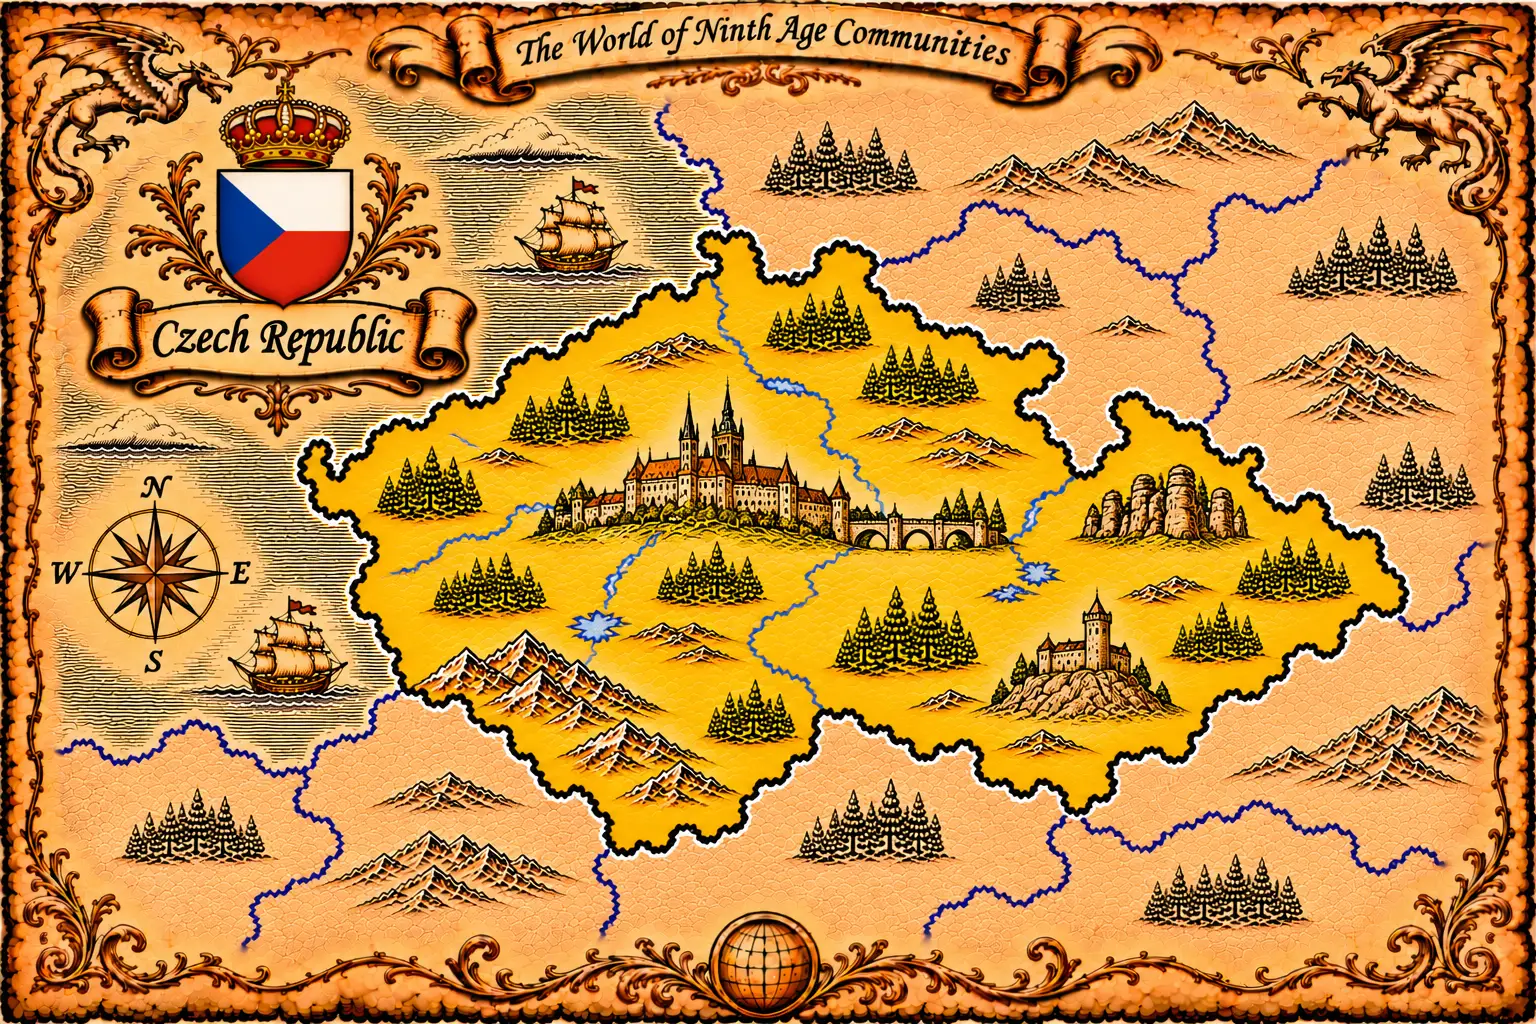
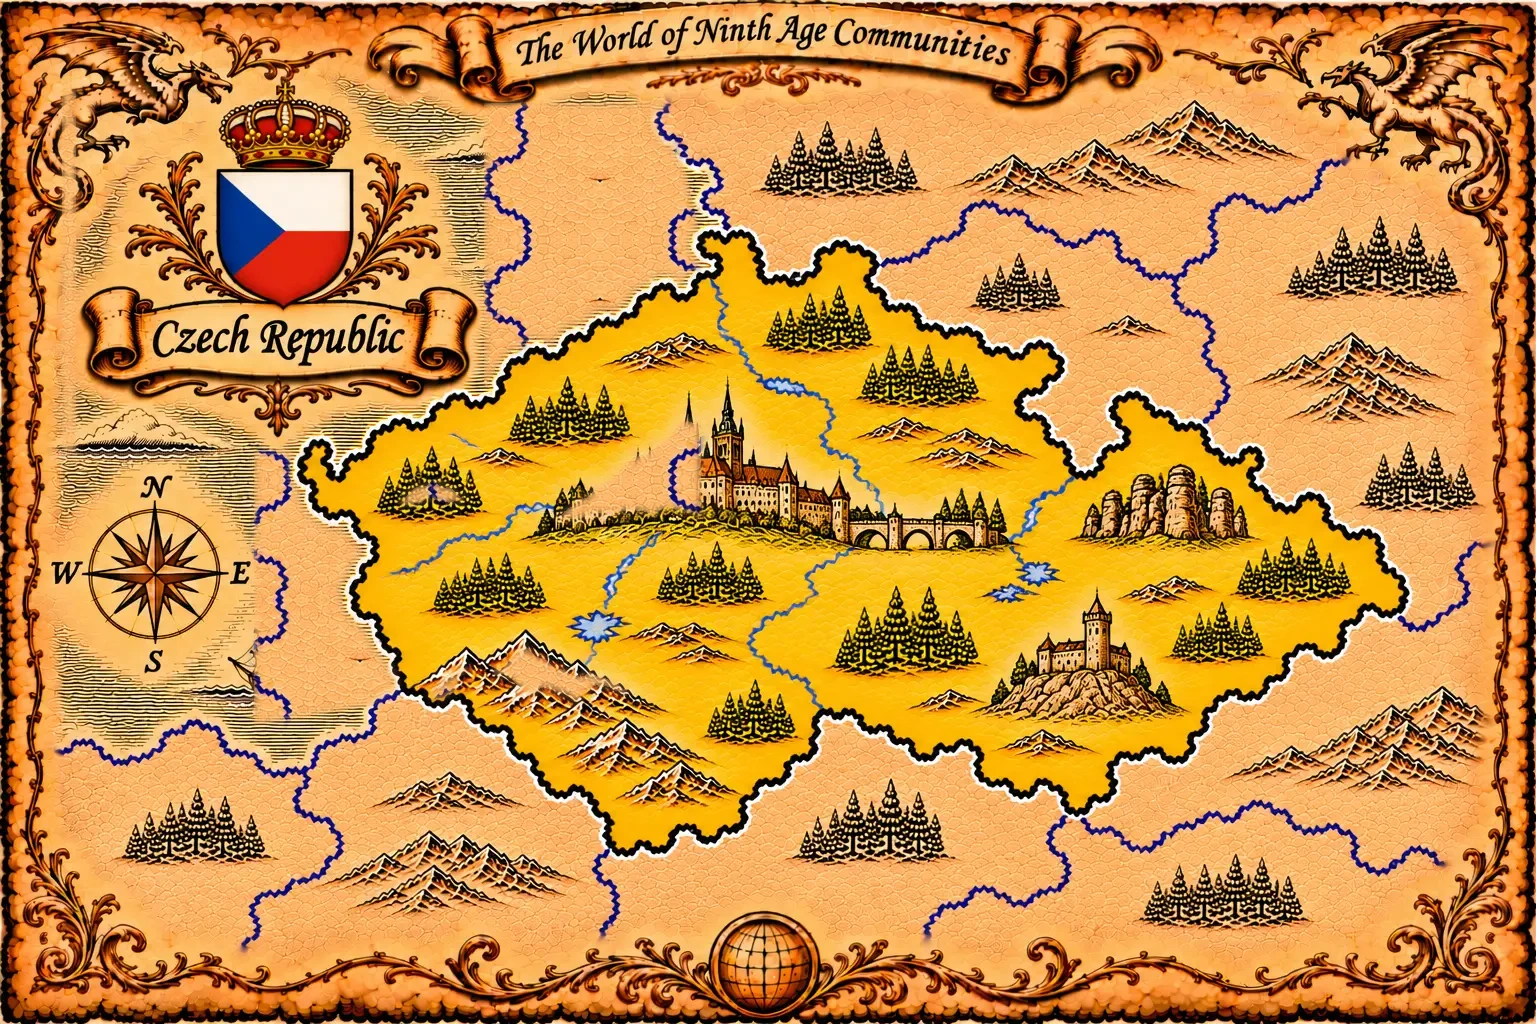
Repaint drawn sea as land on Czechia, Austria and Switzerland
The artwork showed sea where Germany (west of Czechia), Slovenia (south
of Austria) and France (west of Switzerland) should be. tools/repaint_land.py
covers those areas with parchment texture from the same map (originals kept
in assets/country-maps/originals/), and they are now clickable as those
countries.

diff --git a/tools/repaint_land.py b/tools/repaint_land.py
@@ -1,0 +1,90 @@
+"""Repaints part of a minimap as plain land, for sea the artist drew by mistake.
+
+    python repaint_land.py ../data/country-maps/czechia.json
+
+Reads "repaint": [{"outline": [[x, y], ...], "keep": ["Czechia"]}] from the
+config. Inside each outline, everything except the countries listed in
+"keep", the standard decorations and a thin band along their edges (so drawn
+border lines survive) is covered with parchment texture taken from the
+plainest patch of land on the map. Ships and clouds there are painted over.
+
+The untouched artwork is kept as assets/country-maps/originals/<name>.webp and
+is always the starting point, so re-running is safe. Rebuild the hit map
+afterwards (build_minimap.py), adding an "areas" entry to make the repainted
+land clickable.
+"""
+
+import json
+import shutil
+import sys
+from pathlib import Path
+
+import numpy as np
+from PIL import Image, ImageDraw, ImageFilter
+
+from hitmap_lib import dilate
+
+ROOT = Path(__file__).resolve().parent.parent
+config_path = Path(sys.argv[1]).resolve()
+cfg = json.loads(config_path.read_text(encoding="utf8"))
+image_path = ROOT / cfg["image"]
+original = ROOT / "assets/country-maps/originals" / image_path.name
+original.parent.mkdir(parents=True, exist_ok=True)
+if not original.exists():
+    shutil.copy(image_path, original)
+
+art = Image.open(original).convert("RGB")
+W, H = art.size
+px = np.asarray(art).astype(float)
+grey = px.mean(axis=2)
+hitmap = np.asarray(Image.open(config_path.with_name(f"{config_path.stem}-hitmap.png")))
+names = json.loads(config_path.with_name(f"{config_path.stem}-hitmap.json").read_text(encoding="utf8"))["names"]
+
+# Standard layout pieces stay as drawn (same fractions as build_minimap.py).
+KEEP_DECOR = [(0.05, 0.08, 0.315, 0.44), (0.03, 0.44, 0.165, 0.76), (0, 0, 1, 0.035), (0, 0.95, 1, 1),
+              (0, 0, 0.04, 1), (0.96, 0, 1, 1), (0.27, 0, 0.74, 0.10), (0.455, 0.88, 0.545, 1)]
+decor = Image.new("1", (W, H), 0)
+for x0, y0, x1, y1 in KEEP_DECOR:
+    ImageDraw.Draw(decor).rectangle([x0 * W, y0 * H, x1 * W, y1 * H], fill=1)
+decor = np.asarray(decor)
+
+
+def box_sum(a, r):
+    c = np.pad(a.astype(float), ((r + 1, r), (r + 1, r))).cumsum(0).cumsum(1)
+    n = 2 * r + 1
+    return c[n:, n:] - c[:-n, n:] - c[n:, :-n] + c[:-n, :-n]
+
+
+# Texture source: the window of neighbouring land with the least ink in it.
+featured = names.index(cfg["country"]) + 1 if cfg["country"] in names else -1
+land = (hitmap > 0) & (hitmap != featured) & ~decor
+size = 120
+r = size // 2
+ink_count = box_sum(grey < 150, r)
+land_count = box_sum(land, r)
+score = np.where(land_count >= 0.999 * size * size, ink_count, np.inf)
+score[:r] = score[-r:] = np.inf
+score[:, :r] = score[:, -r:] = np.inf
+cy, cx = np.unravel_index(np.argmin(score), score.shape)
+patch = px[cy - r : cy + r, cx - r : cx + r]
+print(f"texture from ({cx}, {cy}), {int(ink_count[cy, cx])} ink pixels")
+
+# Mirror-tile the patch so there are no visible seams.
+tile = np.concatenate([patch, patch[:, ::-1]], axis=1)
+tile = np.concatenate([tile, tile[::-1]], axis=0)
+reps = (H // tile.shape[0] + 1, W // tile.shape[1] + 1, 1)
+texture = np.tile(tile, reps)[:H, :W]
+
+out = px.copy()
+for job in cfg.get("repaint", []):
+    area = Image.new("1", (W, H), 0)
+    ImageDraw.Draw(area).polygon([tuple(p) for p in job["outline"]], fill=1)
+    keep = np.isin(hitmap, [names.index(n) + 1 for n in job.get("keep", []) if n in names])
+    keep = dilate(keep, job.get("margin", 7)) | decor
+    mask = np.asarray(area) & ~keep
+    soft = np.asarray(Image.fromarray((mask * 255).astype(np.uint8)).filter(ImageFilter.GaussianBlur(4))) / 255.0
+    soft = np.minimum(soft, mask.astype(float) + soft * 0.5)
+    out = out * (1 - soft[..., None]) + texture * soft[..., None]
+
+Image.fromarray(out.clip(0, 255).astype(np.uint8)).save(image_path, quality=92, method=6)
+print(f"repainted {image_path.relative_to(ROOT)}")
